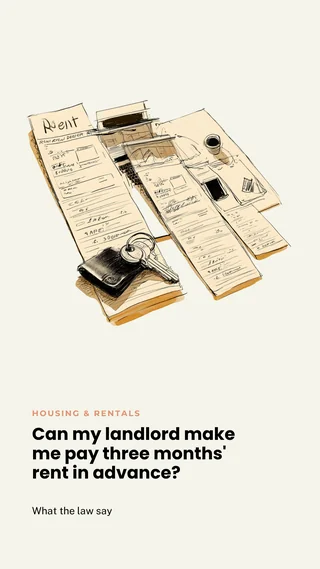
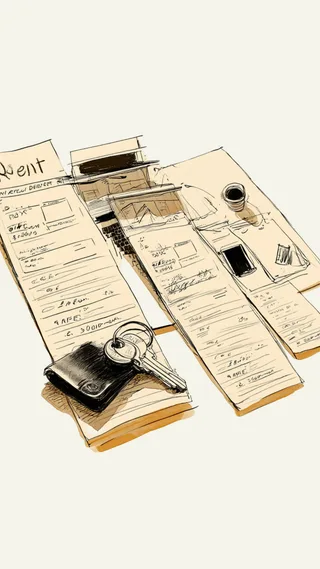
Housing & Rentals questions: title-free card images, hero images, real card text
Same treatment as the Flights & Travel, Employment, Crypto & Fintech,
Food & Hospitality, Training & Education, Finance & Banking, and
Healthcare & Medical batches, now for Housing & Rentals (5 articles),
including the pillar page.

1. Replace the 5 small card images in images/questions/housing-rentals/
   with new title-free versions — same filenames, same 1200x2133 dims —
   and regenerate the .webp/-320w.webp/-410w.webp variants from them.

2. Add a dedicated 1600x900 hero image to each of the 5 Housing & Rentals
   question articles via the established .q-hero-image class (visible at
   all breakpoints, unlike the sitewide .hero-image which is display:none
   on mobile).

3. Fix /questions/ index cards (both "all" and "housing-rentals" tab
   panels): title and category are now real HTML text
   (<h3 class="q-card-title">, <span class="q-card-category">) below
   each image, reusing the .q-card component from the earlier batches —
   no new CSS needed. Preserved the existing &#39; entity in the two
   titles that contain an apostrophe.

4. Fix the Housing & Rentals pillar page (housing-rentals.html): applied
   the same .q-card/.q-card-category/.q-card-title structure (wrapping
   the existing <picture>/webp markup) so title/category render as real
   text here too.

diff --git a/questions.html b/questions.html
@@ -566,20 +566,40 @@
           <span class="q-card-category">Healthcare &amp; Medical</span>
           <h3 class="q-card-title">Can a hospital charge me for something I was not told about beforehand?</h3>
         </a>
-        <a class="q-img-card" href="/questions/housing-rentals/can-my-landlord-enter-my-home-without-telling-me">
-          <img src="/images/questions/housing-rentals/can-my-landlord-enter-my-home-without-telling-me.png" alt="Can my landlord enter my home without telling me?" loading="lazy" width="1200" height="2133">
+        <a class="q-card" href="/questions/housing-rentals/can-my-landlord-enter-my-home-without-telling-me">
+          <div class="q-img-card">
+            <img src="/images/questions/housing-rentals/can-my-landlord-enter-my-home-without-telling-me.png" alt="Can my landlord enter my home without telling me?" loading="lazy" width="1200" height="2133">
+          </div>
+          <span class="q-card-category">Housing &amp; Rentals</span>
+          <h3 class="q-card-title">Can my landlord enter my home without telling me?</h3>
         </a>
-        <a class="q-img-card" href="/questions/housing-rentals/can-landlord-make-me-pay-three-months-rent-advance">
-          <img src="/images/questions/housing-rentals/can-landlord-make-me-pay-three-months-rent-advance.png" alt="Can my landlord make me pay three months&#39; rent in advance?" loading="lazy" width="1200" height="2133">
+        <a class="q-card" href="/questions/housing-rentals/can-landlord-make-me-pay-three-months-rent-advance">
+          <div class="q-img-card">
+            <img src="/images/questions/housing-rentals/can-landlord-make-me-pay-three-months-rent-advance.png" alt="Can my landlord make me pay three months&#39; rent in advance?" loading="lazy" width="1200" height="2133">
+          </div>
+          <span class="q-card-category">Housing &amp; Rentals</span>
+          <h3 class="q-card-title">Can my landlord make me pay three months&#39; rent in advance?</h3>
         </a>
-        <a class="q-img-card" href="/questions/housing-rentals/can-landlord-refuse-give-receipt-for-rent">
-          <img src="/images/questions/housing-rentals/can-landlord-refuse-give-receipt-for-rent.png" alt="Can my landlord refuse to give me a receipt for rent?" loading="lazy" width="1200" height="2133">
+        <a class="q-card" href="/questions/housing-rentals/can-landlord-refuse-give-receipt-for-rent">
+          <div class="q-img-card">
+            <img src="/images/questions/housing-rentals/can-landlord-refuse-give-receipt-for-rent.png" alt="Can my landlord refuse to give me a receipt for rent?" loading="lazy" width="1200" height="2133">
+          </div>
+          <span class="q-card-category">Housing &amp; Rentals</span>
+          <h3 class="q-card-title">Can my landlord refuse to give me a receipt for rent?</h3>
         </a>
-        <a class="q-img-card" href="/questions/housing-rentals/who-pays-appliance-breaks-rented-property">
-          <img src="/images/questions/housing-rentals/who-pays-appliance-breaks-rented-property.png" alt="Who pays if an appliance breaks in a rented property?" loading="lazy" width="1200" height="2133">
+        <a class="q-card" href="/questions/housing-rentals/who-pays-appliance-breaks-rented-property">
+          <div class="q-img-card">
+            <img src="/images/questions/housing-rentals/who-pays-appliance-breaks-rented-property.png" alt="Who pays if an appliance breaks in a rented property?" loading="lazy" width="1200" height="2133">
+          </div>
+          <span class="q-card-category">Housing &amp; Rentals</span>
+          <h3 class="q-card-title">Who pays if an appliance breaks in a rented property?</h3>
         </a>
-        <a class="q-img-card" href="/questions/housing-rentals/can-landlord-keep-deposit-didnt-repaint-walls">
-          <img src="/images/questions/housing-rentals/can-landlord-keep-deposit-didnt-repaint-walls.png" alt="Can my landlord keep my deposit because I didn&#39;t repaint the walls?" loading="lazy" width="1200" height="2133">
+        <a class="q-card" href="/questions/housing-rentals/can-landlord-keep-deposit-didnt-repaint-walls">
+          <div class="q-img-card">
+            <img src="/images/questions/housing-rentals/can-landlord-keep-deposit-didnt-repaint-walls.png" alt="Can my landlord keep my deposit because I didn&#39;t repaint the walls?" loading="lazy" width="1200" height="2133">
+          </div>
+          <span class="q-card-category">Housing &amp; Rentals</span>
+          <h3 class="q-card-title">Can my landlord keep my deposit because I didn&#39;t repaint the walls?</h3>
         </a>
         <a class="q-img-card" href="/questions/delivery-parcels/can-courier-leave-parcel-outside-without-permission">
           <img src="/images/questions/delivery-parcels/can-courier-leave-parcel-outside-without-permission.png" alt="Can a courier leave my parcel outside without my permission?" loading="lazy" width="1200" height="2133">
@@ -881,20 +901,40 @@
 
     <div class="qh-tool-panel" data-toolpanel="housing-rentals">
       <div class="q-card-grid">
-        <a class="q-img-card" href="/questions/housing-rentals/can-my-landlord-enter-my-home-without-telling-me">
-          <img src="/images/questions/housing-rentals/can-my-landlord-enter-my-home-without-telling-me.png" alt="Can my landlord enter my home without telling me?" loading="lazy" width="1200" height="2133">
+        <a class="q-card" href="/questions/housing-rentals/can-my-landlord-enter-my-home-without-telling-me">
+          <div class="q-img-card">
+            <img src="/images/questions/housing-rentals/can-my-landlord-enter-my-home-without-telling-me.png" alt="Can my landlord enter my home without telling me?" loading="lazy" width="1200" height="2133">
+          </div>
+          <span class="q-card-category">Housing &amp; Rentals</span>
+          <h3 class="q-card-title">Can my landlord enter my home without telling me?</h3>
         </a>
-        <a class="q-img-card" href="/questions/housing-rentals/can-landlord-make-me-pay-three-months-rent-advance">
-          <img src="/images/questions/housing-rentals/can-landlord-make-me-pay-three-months-rent-advance.png" alt="Can my landlord make me pay three months&#39; rent in advance?" loading="lazy" width="1200" height="2133">
+        <a class="q-card" href="/questions/housing-rentals/can-landlord-make-me-pay-three-months-rent-advance">
+          <div class="q-img-card">
+            <img src="/images/questions/housing-rentals/can-landlord-make-me-pay-three-months-rent-advance.png" alt="Can my landlord make me pay three months&#39; rent in advance?" loading="lazy" width="1200" height="2133">
+          </div>
+          <span class="q-card-category">Housing &amp; Rentals</span>
+          <h3 class="q-card-title">Can my landlord make me pay three months&#39; rent in advance?</h3>
         </a>
-        <a class="q-img-card" href="/questions/housing-rentals/can-landlord-refuse-give-receipt-for-rent">
-          <img src="/images/questions/housing-rentals/can-landlord-refuse-give-receipt-for-rent.png" alt="Can my landlord refuse to give me a receipt for rent?" loading="lazy" width="1200" height="2133">
+        <a class="q-card" href="/questions/housing-rentals/can-landlord-refuse-give-receipt-for-rent">
+          <div class="q-img-card">
+            <img src="/images/questions/housing-rentals/can-landlord-refuse-give-receipt-for-rent.png" alt="Can my landlord refuse to give me a receipt for rent?" loading="lazy" width="1200" height="2133">
+          </div>
+          <span class="q-card-category">Housing &amp; Rentals</span>
+          <h3 class="q-card-title">Can my landlord refuse to give me a receipt for rent?</h3>
         </a>
-        <a class="q-img-card" href="/questions/housing-rentals/who-pays-appliance-breaks-rented-property">
-          <img src="/images/questions/housing-rentals/who-pays-appliance-breaks-rented-property.png" alt="Who pays if an appliance breaks in a rented property?" loading="lazy" width="1200" height="2133">
+        <a class="q-card" href="/questions/housing-rentals/who-pays-appliance-breaks-rented-property">
+          <div class="q-img-card">
+            <img src="/images/questions/housing-rentals/who-pays-appliance-breaks-rented-property.png" alt="Who pays if an appliance breaks in a rented property?" loading="lazy" width="1200" height="2133">
+          </div>
+          <span class="q-card-category">Housing &amp; Rentals</span>
+          <h3 class="q-card-title">Who pays if an appliance breaks in a rented property?</h3>
         </a>
-        <a class="q-img-card" href="/questions/housing-rentals/can-landlord-keep-deposit-didnt-repaint-walls">
-          <img src="/images/questions/housing-rentals/can-landlord-keep-deposit-didnt-repaint-walls.png" alt="Can my landlord keep my deposit because I didn&#39;t repaint the walls?" loading="lazy" width="1200" height="2133">
+        <a class="q-card" href="/questions/housing-rentals/can-landlord-keep-deposit-didnt-repaint-walls">
+          <div class="q-img-card">
+            <img src="/images/questions/housing-rentals/can-landlord-keep-deposit-didnt-repaint-walls.png" alt="Can my landlord keep my deposit because I didn&#39;t repaint the walls?" loading="lazy" width="1200" height="2133">
+          </div>
+          <span class="q-card-category">Housing &amp; Rentals</span>
+          <h3 class="q-card-title">Can my landlord keep my deposit because I didn&#39;t repaint the walls?</h3>
         </a>
       </div>
     </div>

diff --git a/housing-rentals.html b/housing-rentals.html
@@ -584,28 +584,49 @@
        at all for an empty array. -->
   <div id="chFutureSections"></div>
 
-  <!-- QUESTIONS — image-only cards, same .q-card-grid/.q-img-card component as
-       questions.html and the other pillar pages. Static (not JS-rendered like
-       Calculators/Cases/Investigations above) since this section, unlike those,
+  <!-- QUESTIONS — image + category + title cards, same .q-card-grid/.q-card
+       component as questions.html and the other pillar pages (title/category
+       are real HTML text, never baked into the image). Static (not JS-rendered
+       like Calculators/Cases/Investigations above) since this section, unlike those,
        isn't meant to silently disappear if empty. -->
   <section aria-labelledby="ch-questions-h2" style="margin-top: 56px;">
     <h2 id="ch-questions-h2" class="cl-hub-cat">Questions</h2>
     <p class="cl-hub-cat-sub">Real questions about landlord entry, deposits, rent receipts and repair responsibility — answered with the exact US and UK law that applies. <a href="/questions">See all Questions →</a></p>
     <div class="q-card-grid">
-      <a class="q-img-card" href="/questions/housing-rentals/can-my-landlord-enter-my-home-without-telling-me">
-        <picture><source srcset="/images/questions/housing-rentals/can-my-landlord-enter-my-home-without-telling-me-320w.webp 320w, /images/questions/housing-rentals/can-my-landlord-enter-my-home-without-telling-me-410w.webp 410w, /images/questions/housing-rentals/can-my-landlord-enter-my-home-without-telling-me.webp 540w" sizes="(min-width: 960px) 265px, (min-width: 640px) 205px, 160px" type="image/webp"><img src="/images/questions/housing-rentals/can-my-landlord-enter-my-home-without-telling-me.png" alt="Can my landlord enter my home without telling me?" loading="lazy" width="1200" height="2133"></picture>
+      <a class="q-card" href="/questions/housing-rentals/can-my-landlord-enter-my-home-without-telling-me">
+        <div class="q-img-card">
+          <picture><source srcset="/images/questions/housing-rentals/can-my-landlord-enter-my-home-without-telling-me-320w.webp 320w, /images/questions/housing-rentals/can-my-landlord-enter-my-home-without-telling-me-410w.webp 410w, /images/questions/housing-rentals/can-my-landlord-enter-my-home-without-telling-me.webp 540w" sizes="(min-width: 960px) 265px, (min-width: 640px) 205px, 160px" type="image/webp"><img src="/images/questions/housing-rentals/can-my-landlord-enter-my-home-without-telling-me.png" alt="Can my landlord enter my home without telling me?" loading="lazy" width="1200" height="2133"></picture>
+        </div>
+        <span class="q-card-category">Housing &amp; Rentals</span>
+        <h3 class="q-card-title">Can my landlord enter my home without telling me?</h3>
       </a>
-      <a class="q-img-card" href="/questions/housing-rentals/can-landlord-make-me-pay-three-months-rent-advance">
-        <picture><source srcset="/images/questions/housing-rentals/can-landlord-make-me-pay-three-months-rent-advance-320w.webp 320w, /images/questions/housing-rentals/can-landlord-make-me-pay-three-months-rent-advance-410w.webp 410w, /images/questions/housing-rentals/can-landlord-make-me-pay-three-months-rent-advance.webp 540w" sizes="(min-width: 960px) 265px, (min-width: 640px) 205px, 160px" type="image/webp"><img src="/images/questions/housing-rentals/can-landlord-make-me-pay-three-months-rent-advance.png" alt="Can my landlord make me pay three months&#39; rent in advance?" loading="lazy" width="1200" height="2133"></picture>
+      <a class="q-card" href="/questions/housing-rentals/can-landlord-make-me-pay-three-months-rent-advance">
+        <div class="q-img-card">
+          <picture><source srcset="/images/questions/housing-rentals/can-landlord-make-me-pay-three-months-rent-advance-320w.webp 320w, /images/questions/housing-rentals/can-landlord-make-me-pay-three-months-rent-advance-410w.webp 410w, /images/questions/housing-rentals/can-landlord-make-me-pay-three-months-rent-advance.webp 540w" sizes="(min-width: 960px) 265px, (min-width: 640px) 205px, 160px" type="image/webp"><img src="/images/questions/housing-rentals/can-landlord-make-me-pay-three-months-rent-advance.png" alt="Can my landlord make me pay three months&#39; rent in advance?" loading="lazy" width="1200" height="2133"></picture>
+        </div>
+        <span class="q-card-category">Housing &amp; Rentals</span>
+        <h3 class="q-card-title">Can my landlord make me pay three months&#39; rent in advance?</h3>
       </a>
-      <a class="q-img-card" href="/questions/housing-rentals/can-landlord-refuse-give-receipt-for-rent">
-        <picture><source srcset="/images/questions/housing-rentals/can-landlord-refuse-give-receipt-for-rent-320w.webp 320w, /images/questions/housing-rentals/can-landlord-refuse-give-receipt-for-rent-410w.webp 410w, /images/questions/housing-rentals/can-landlord-refuse-give-receipt-for-rent.webp 540w" sizes="(min-width: 960px) 265px, (min-width: 640px) 205px, 160px" type="image/webp"><img src="/images/questions/housing-rentals/can-landlord-refuse-give-receipt-for-rent.png" alt="Can my landlord refuse to give me a receipt for rent?" loading="lazy" width="1200" height="2133"></picture>
+      <a class="q-card" href="/questions/housing-rentals/can-landlord-refuse-give-receipt-for-rent">
+        <div class="q-img-card">
+          <picture><source srcset="/images/questions/housing-rentals/can-landlord-refuse-give-receipt-for-rent-320w.webp 320w, /images/questions/housing-rentals/can-landlord-refuse-give-receipt-for-rent-410w.webp 410w, /images/questions/housing-rentals/can-landlord-refuse-give-receipt-for-rent.webp 540w" sizes="(min-width: 960px) 265px, (min-width: 640px) 205px, 160px" type="image/webp"><img src="/images/questions/housing-rentals/can-landlord-refuse-give-receipt-for-rent.png" alt="Can my landlord refuse to give me a receipt for rent?" loading="lazy" width="1200" height="2133"></picture>
+        </div>
+        <span class="q-card-category">Housing &amp; Rentals</span>
+        <h3 class="q-card-title">Can my landlord refuse to give me a receipt for rent?</h3>
       </a>
-      <a class="q-img-card" href="/questions/housing-rentals/who-pays-appliance-breaks-rented-property">
-        <picture><source srcset="/images/questions/housing-rentals/who-pays-appliance-breaks-rented-property-320w.webp 320w, /images/questions/housing-rentals/who-pays-appliance-breaks-rented-property-410w.webp 410w, /images/questions/housing-rentals/who-pays-appliance-breaks-rented-property.webp 540w" sizes="(min-width: 960px) 265px, (min-width: 640px) 205px, 160px" type="image/webp"><img src="/images/questions/housing-rentals/who-pays-appliance-breaks-rented-property.png" alt="Who pays if an appliance breaks in a rented property?" loading="lazy" width="1200" height="2133"></picture>
+      <a class="q-card" href="/questions/housing-rentals/who-pays-appliance-breaks-rented-property">
+        <div class="q-img-card">
+          <picture><source srcset="/images/questions/housing-rentals/who-pays-appliance-breaks-rented-property-320w.webp 320w, /images/questions/housing-rentals/who-pays-appliance-breaks-rented-property-410w.webp 410w, /images/questions/housing-rentals/who-pays-appliance-breaks-rented-property.webp 540w" sizes="(min-width: 960px) 265px, (min-width: 640px) 205px, 160px" type="image/webp"><img src="/images/questions/housing-rentals/who-pays-appliance-breaks-rented-property.png" alt="Who pays if an appliance breaks in a rented property?" loading="lazy" width="1200" height="2133"></picture>
+        </div>
+        <span class="q-card-category">Housing &amp; Rentals</span>
+        <h3 class="q-card-title">Who pays if an appliance breaks in a rented property?</h3>
       </a>
-      <a class="q-img-card" href="/questions/housing-rentals/can-landlord-keep-deposit-didnt-repaint-walls">
-        <picture><source srcset="/images/questions/housing-rentals/can-landlord-keep-deposit-didnt-repaint-walls-320w.webp 320w, /images/questions/housing-rentals/can-landlord-keep-deposit-didnt-repaint-walls-410w.webp 410w, /images/questions/housing-rentals/can-landlord-keep-deposit-didnt-repaint-walls.webp 540w" sizes="(min-width: 960px) 265px, (min-width: 640px) 205px, 160px" type="image/webp"><img src="/images/questions/housing-rentals/can-landlord-keep-deposit-didnt-repaint-walls.png" alt="Can my landlord keep my deposit because I didn&#39;t repaint the walls?" loading="lazy" width="1200" height="2133"></picture>
+      <a class="q-card" href="/questions/housing-rentals/can-landlord-keep-deposit-didnt-repaint-walls">
+        <div class="q-img-card">
+          <picture><source srcset="/images/questions/housing-rentals/can-landlord-keep-deposit-didnt-repaint-walls-320w.webp 320w, /images/questions/housing-rentals/can-landlord-keep-deposit-didnt-repaint-walls-410w.webp 410w, /images/questions/housing-rentals/can-landlord-keep-deposit-didnt-repaint-walls.webp 540w" sizes="(min-width: 960px) 265px, (min-width: 640px) 205px, 160px" type="image/webp"><img src="/images/questions/housing-rentals/can-landlord-keep-deposit-didnt-repaint-walls.png" alt="Can my landlord keep my deposit because I didn&#39;t repaint the walls?" loading="lazy" width="1200" height="2133"></picture>
+        </div>
+        <span class="q-card-category">Housing &amp; Rentals</span>
+        <h3 class="q-card-title">Can my landlord keep my deposit because I didn&#39;t repaint the walls?</h3>
       </a>
     </div>
   </section>

diff --git a/questions/housing-rentals/can-landlord-refuse-give-receipt-for-rent.html b/questions/housing-rentals/can-landlord-refuse-give-receipt-for-rent.html
@@ -117,6 +117,8 @@
   .wrap { max-width: 720px; margin: 0 auto; padding: 0 24px; }
   .q-header { padding: 56px 0 28px; }
   .q-category { display: inline-block; font-family: var(--font-sans); font-size: 13px; font-weight: 700; letter-spacing: 1.2px; text-transform: uppercase; color: var(--accent-terra); margin-bottom: 18px; }
+  /* Visible at ALL breakpoints, unlike the sitewide .hero-image class (display:none on mobile). */
+  .q-hero-image { display: block; width: 100%; max-width: 100%; height: auto; border-radius: 12px; margin: 0 0 24px; }
   .q-header h1 { font-family: var(--font-serif); font-size: 36px; font-weight: 800; line-height: 1.25; margin-bottom: 16px; }
   .q-dek { font-size: 18px; color: var(--text-secondary); max-width: 620px; }
   .q-meta { display: flex; gap: 18px; margin-top: 20px; font-size: 13px; color: var(--text-secondary); }
@@ -342,6 +344,7 @@
 
   <header class="q-header">
     <span class="q-category">Housing &amp; Rentals · US &amp; UK</span>
+    <img class="q-hero-image" src="/images/questions/housing-rentals/can-landlord-refuse-give-receipt-for-rent-hero.png" width="1600" height="900" alt="Can my landlord refuse to give me a receipt for rent?" loading="eager" fetchpriority="high">
     <h1>Can my landlord refuse to give me a receipt for rent?</h1>
     <p class="q-dek">A receipt costs the landlord nothing to provide, and protects you in exactly the situations where you'll need it most: disputes, benefits, and visa paperwork.</p>
     <div class="q-meta">

diff --git a/questions/housing-rentals/can-my-landlord-enter-my-home-without-telling-me.html b/questions/housing-rentals/can-my-landlord-enter-my-home-without-telling-me.html
@@ -117,6 +117,8 @@
   .wrap { max-width: 720px; margin: 0 auto; padding: 0 24px; }
   .q-header { padding: 56px 0 28px; }
   .q-category { display: inline-block; font-family: var(--font-sans); font-size: 13px; font-weight: 700; letter-spacing: 1.2px; text-transform: uppercase; color: var(--accent-terra); margin-bottom: 18px; }
+  /* Visible at ALL breakpoints, unlike the sitewide .hero-image class (display:none on mobile). */
+  .q-hero-image { display: block; width: 100%; max-width: 100%; height: auto; border-radius: 12px; margin: 0 0 24px; }
   .q-header h1 { font-family: var(--font-serif); font-size: 36px; font-weight: 800; line-height: 1.25; margin-bottom: 16px; }
   .q-dek { font-size: 18px; color: var(--text-secondary); max-width: 620px; }
   .q-meta { display: flex; gap: 18px; margin-top: 20px; font-size: 13px; color: var(--text-secondary); }
@@ -342,6 +344,7 @@
 
   <header class="q-header">
     <span class="q-category">Housing &amp; Rentals · US &amp; UK</span>
+    <img class="q-hero-image" src="/images/questions/housing-rentals/can-my-landlord-enter-my-home-without-telling-me-hero.png" width="1600" height="900" alt="Can my landlord enter my home without telling me?" loading="eager" fetchpriority="high">
     <h1>Can my landlord enter my home without telling me?</h1>
     <p class="q-dek">Owning the property and having the right to walk into it whenever you like turn out to be two very different things once someone else is living there.</p>
     <div class="q-meta">

diff --git a/questions/housing-rentals/can-landlord-make-me-pay-three-months-rent-advance.html b/questions/housing-rentals/can-landlord-make-me-pay-three-months-rent-advance.html
@@ -117,6 +117,8 @@
   .wrap { max-width: 720px; margin: 0 auto; padding: 0 24px; }
   .q-header { padding: 56px 0 28px; }
   .q-category { display: inline-block; font-family: var(--font-sans); font-size: 13px; font-weight: 700; letter-spacing: 1.2px; text-transform: uppercase; color: var(--accent-terra); margin-bottom: 18px; }
+  /* Visible at ALL breakpoints, unlike the sitewide .hero-image class (display:none on mobile). */
+  .q-hero-image { display: block; width: 100%; max-width: 100%; height: auto; border-radius: 12px; margin: 0 0 24px; }
   .q-header h1 { font-family: var(--font-serif); font-size: 36px; font-weight: 800; line-height: 1.25; margin-bottom: 16px; }
   .q-dek { font-size: 18px; color: var(--text-secondary); max-width: 620px; }
   .q-meta { display: flex; gap: 18px; margin-top: 20px; font-size: 13px; color: var(--text-secondary); }
@@ -342,6 +344,7 @@
 
   <header class="q-header">
     <span class="q-category">Housing &amp; Rentals · US &amp; UK</span>
+    <img class="q-hero-image" src="/images/questions/housing-rentals/can-landlord-make-me-pay-three-months-rent-advance-hero.png" width="1600" height="900" alt="Can my landlord make me pay three months' rent in advance?" loading="eager" fetchpriority="high">
     <h1>Can my landlord make me pay three months' rent in advance?</h1>
     <p class="q-dek">This used to be a routine ask for anyone without a UK rental history. As of May 2026, in England, it's no longer legal.</p>
     <div class="q-meta">

diff --git a/questions/housing-rentals/can-landlord-keep-deposit-didnt-repaint-walls.html b/questions/housing-rentals/can-landlord-keep-deposit-didnt-repaint-walls.html
@@ -117,6 +117,8 @@
   .wrap { max-width: 720px; margin: 0 auto; padding: 0 24px; }
   .q-header { padding: 56px 0 28px; }
   .q-category { display: inline-block; font-family: var(--font-sans); font-size: 13px; font-weight: 700; letter-spacing: 1.2px; text-transform: uppercase; color: var(--accent-terra); margin-bottom: 18px; }
+  /* Visible at ALL breakpoints, unlike the sitewide .hero-image class (display:none on mobile). */
+  .q-hero-image { display: block; width: 100%; max-width: 100%; height: auto; border-radius: 12px; margin: 0 0 24px; }
   .q-header h1 { font-family: var(--font-serif); font-size: 36px; font-weight: 800; line-height: 1.25; margin-bottom: 16px; }
   .q-dek { font-size: 18px; color: var(--text-secondary); max-width: 620px; }
   .q-meta { display: flex; gap: 18px; margin-top: 20px; font-size: 13px; color: var(--text-secondary); }
@@ -342,6 +344,7 @@
 
   <header class="q-header">
     <span class="q-category">Housing &amp; Rentals · US &amp; UK</span>
+    <img class="q-hero-image" src="/images/questions/housing-rentals/can-landlord-keep-deposit-didnt-repaint-walls-hero.png" width="1600" height="900" alt="Can my landlord keep my deposit because I didn't repaint the walls?" loading="eager" fetchpriority="high">
     <h1>Can my landlord keep my deposit because I didn't repaint the walls?</h1>
     <p class="q-dek">"Normal wear and tear" is a real legal standard, not a phrase landlords can simply talk past.</p>
     <div class="q-meta">

diff --git a/questions/housing-rentals/who-pays-appliance-breaks-rented-property.html b/questions/housing-rentals/who-pays-appliance-breaks-rented-property.html
@@ -117,6 +117,8 @@
   .wrap { max-width: 720px; margin: 0 auto; padding: 0 24px; }
   .q-header { padding: 56px 0 28px; }
   .q-category { display: inline-block; font-family: var(--font-sans); font-size: 13px; font-weight: 700; letter-spacing: 1.2px; text-transform: uppercase; color: var(--accent-terra); margin-bottom: 18px; }
+  /* Visible at ALL breakpoints, unlike the sitewide .hero-image class (display:none on mobile). */
+  .q-hero-image { display: block; width: 100%; max-width: 100%; height: auto; border-radius: 12px; margin: 0 0 24px; }
   .q-header h1 { font-family: var(--font-serif); font-size: 36px; font-weight: 800; line-height: 1.25; margin-bottom: 16px; }
   .q-dek { font-size: 18px; color: var(--text-secondary); max-width: 620px; }
   .q-meta { display: flex; gap: 18px; margin-top: 20px; font-size: 13px; color: var(--text-secondary); }
@@ -342,6 +344,7 @@
 
   <header class="q-header">
     <span class="q-category">Housing &amp; Rentals · US &amp; UK</span>
+    <img class="q-hero-image" src="/images/questions/housing-rentals/who-pays-appliance-breaks-rented-property-hero.png" width="1600" height="900" alt="Who pays if an appliance breaks in a rented property?" loading="eager" fetchpriority="high">
     <h1>Who pays if an appliance breaks in a rented property?</h1>
     <p class="q-dek">The dividing line isn't which appliance it is — it's whether it broke from age and normal use, or from something you did.</p>
     <div class="q-meta">
